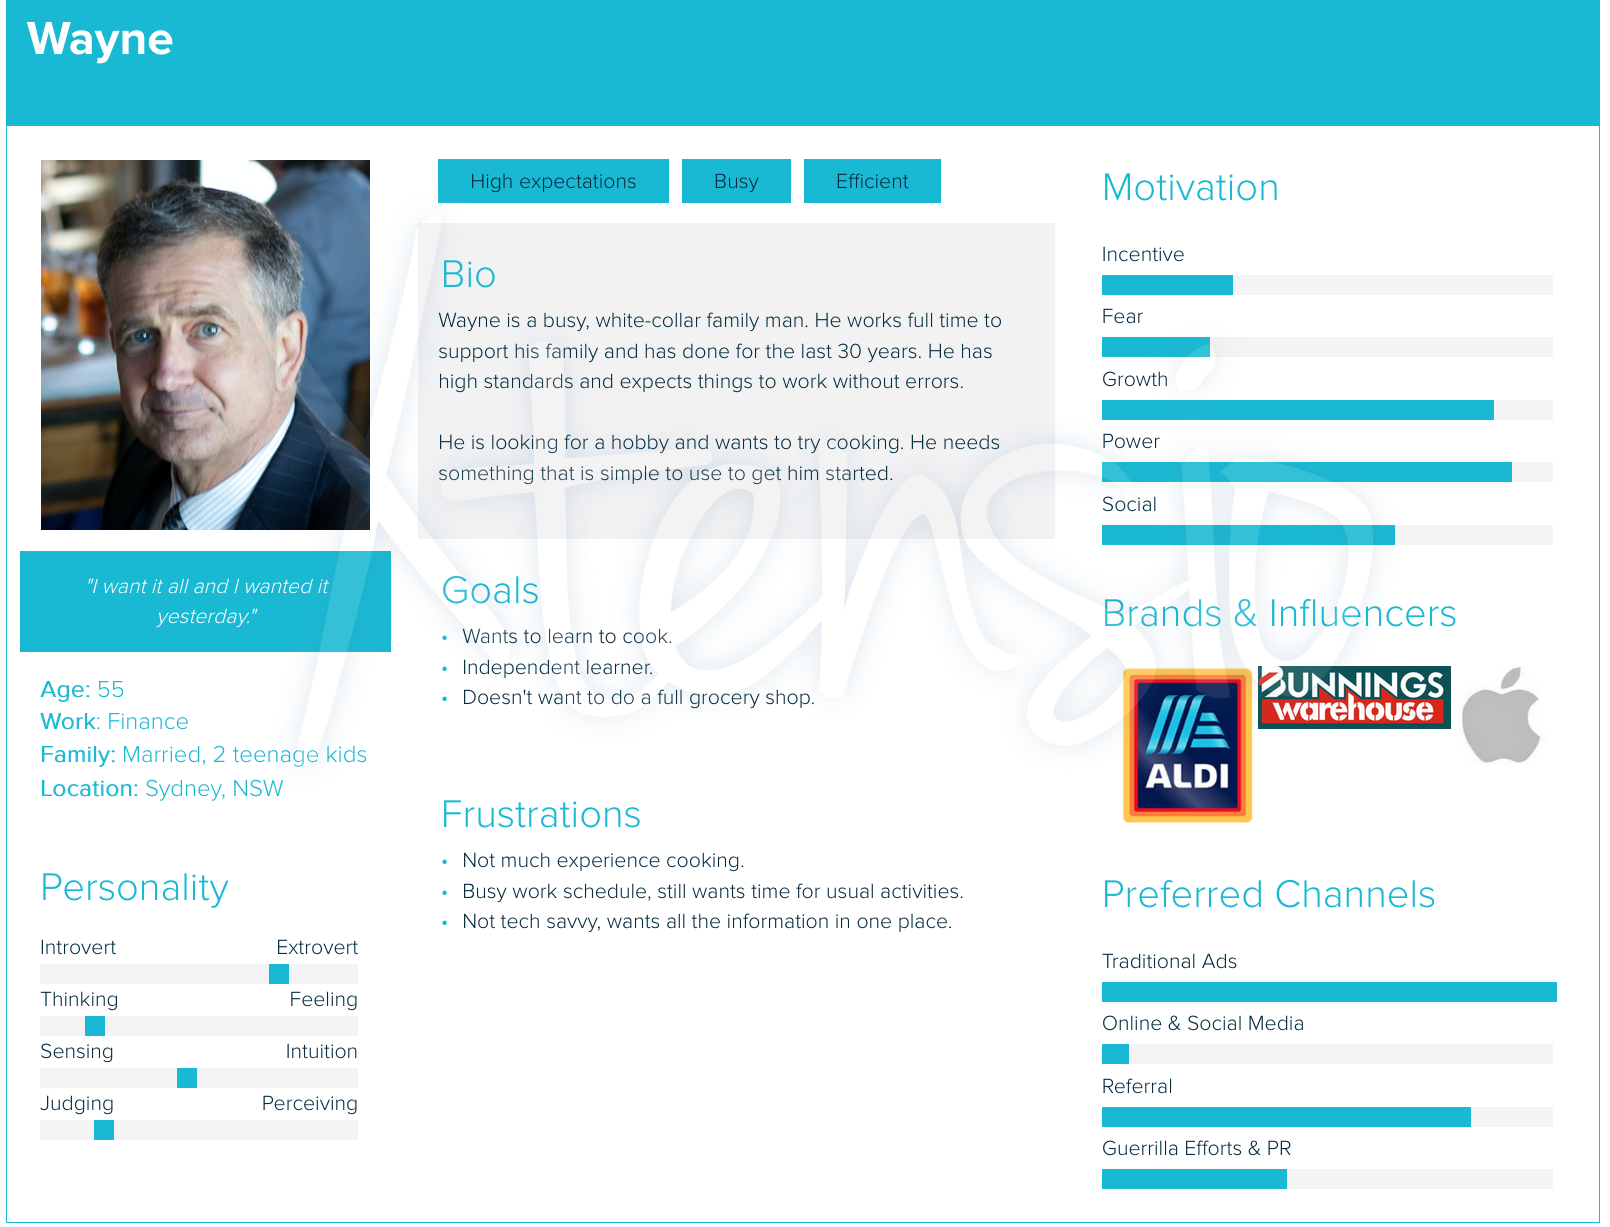
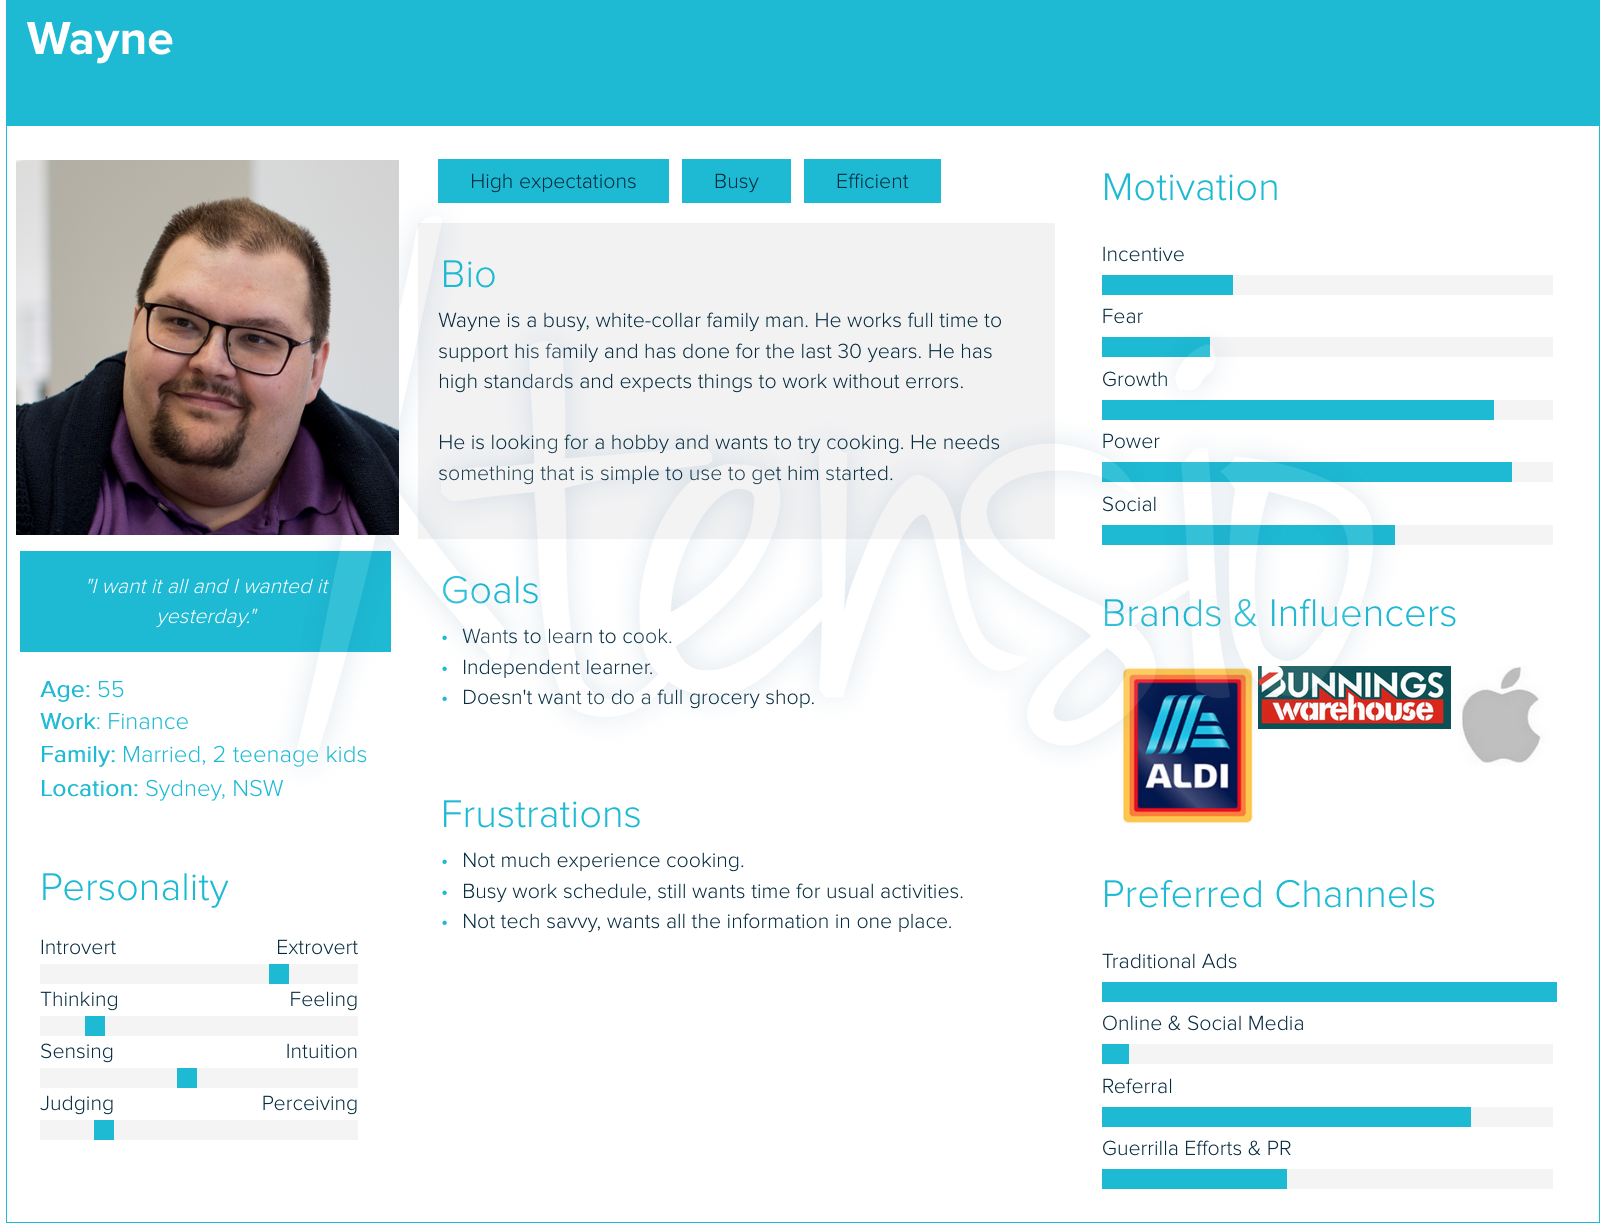
Update Wayne and Bez

Changed region(s): [[0.0, 0.1239, 0.2484, 0.4336]]

diff --git a/README.md b/README.md
@@ -127,7 +127,7 @@
     5.
     6.
 
-![Bez Persona](persons/Bez.png)
+![Bez Persona](persons/Bez2.png)
 - #### Bez 
     1.
     2.
